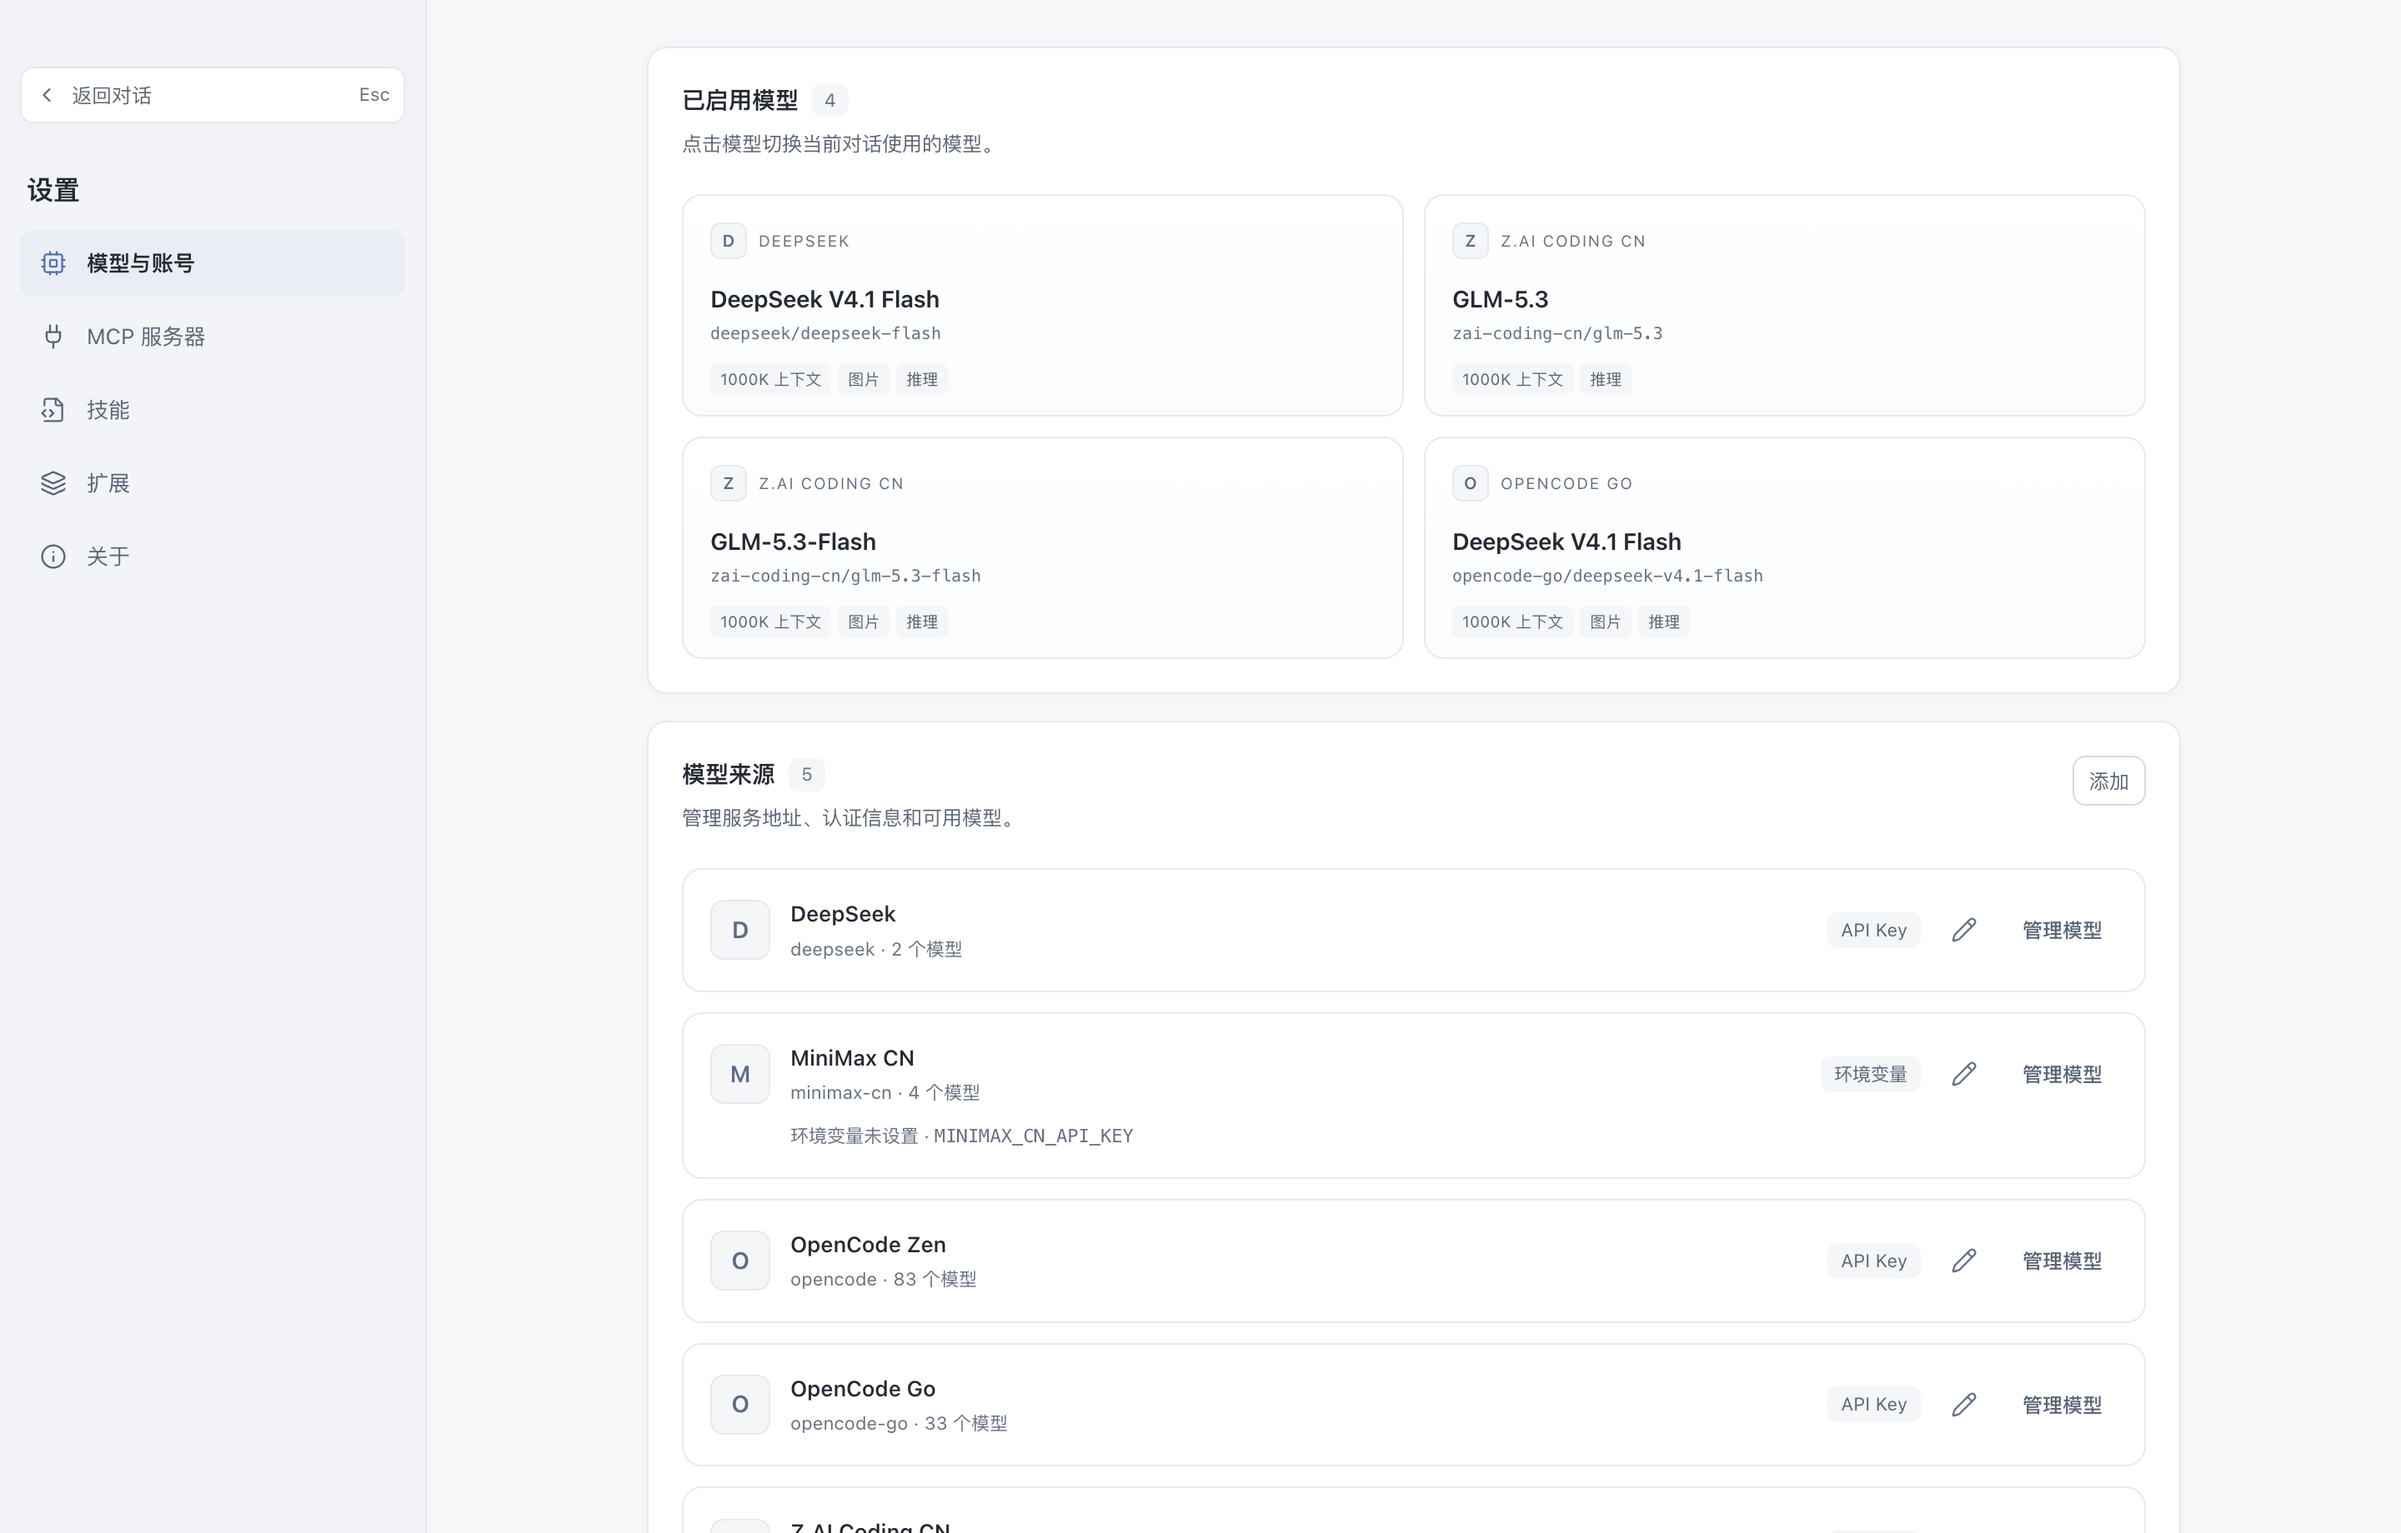
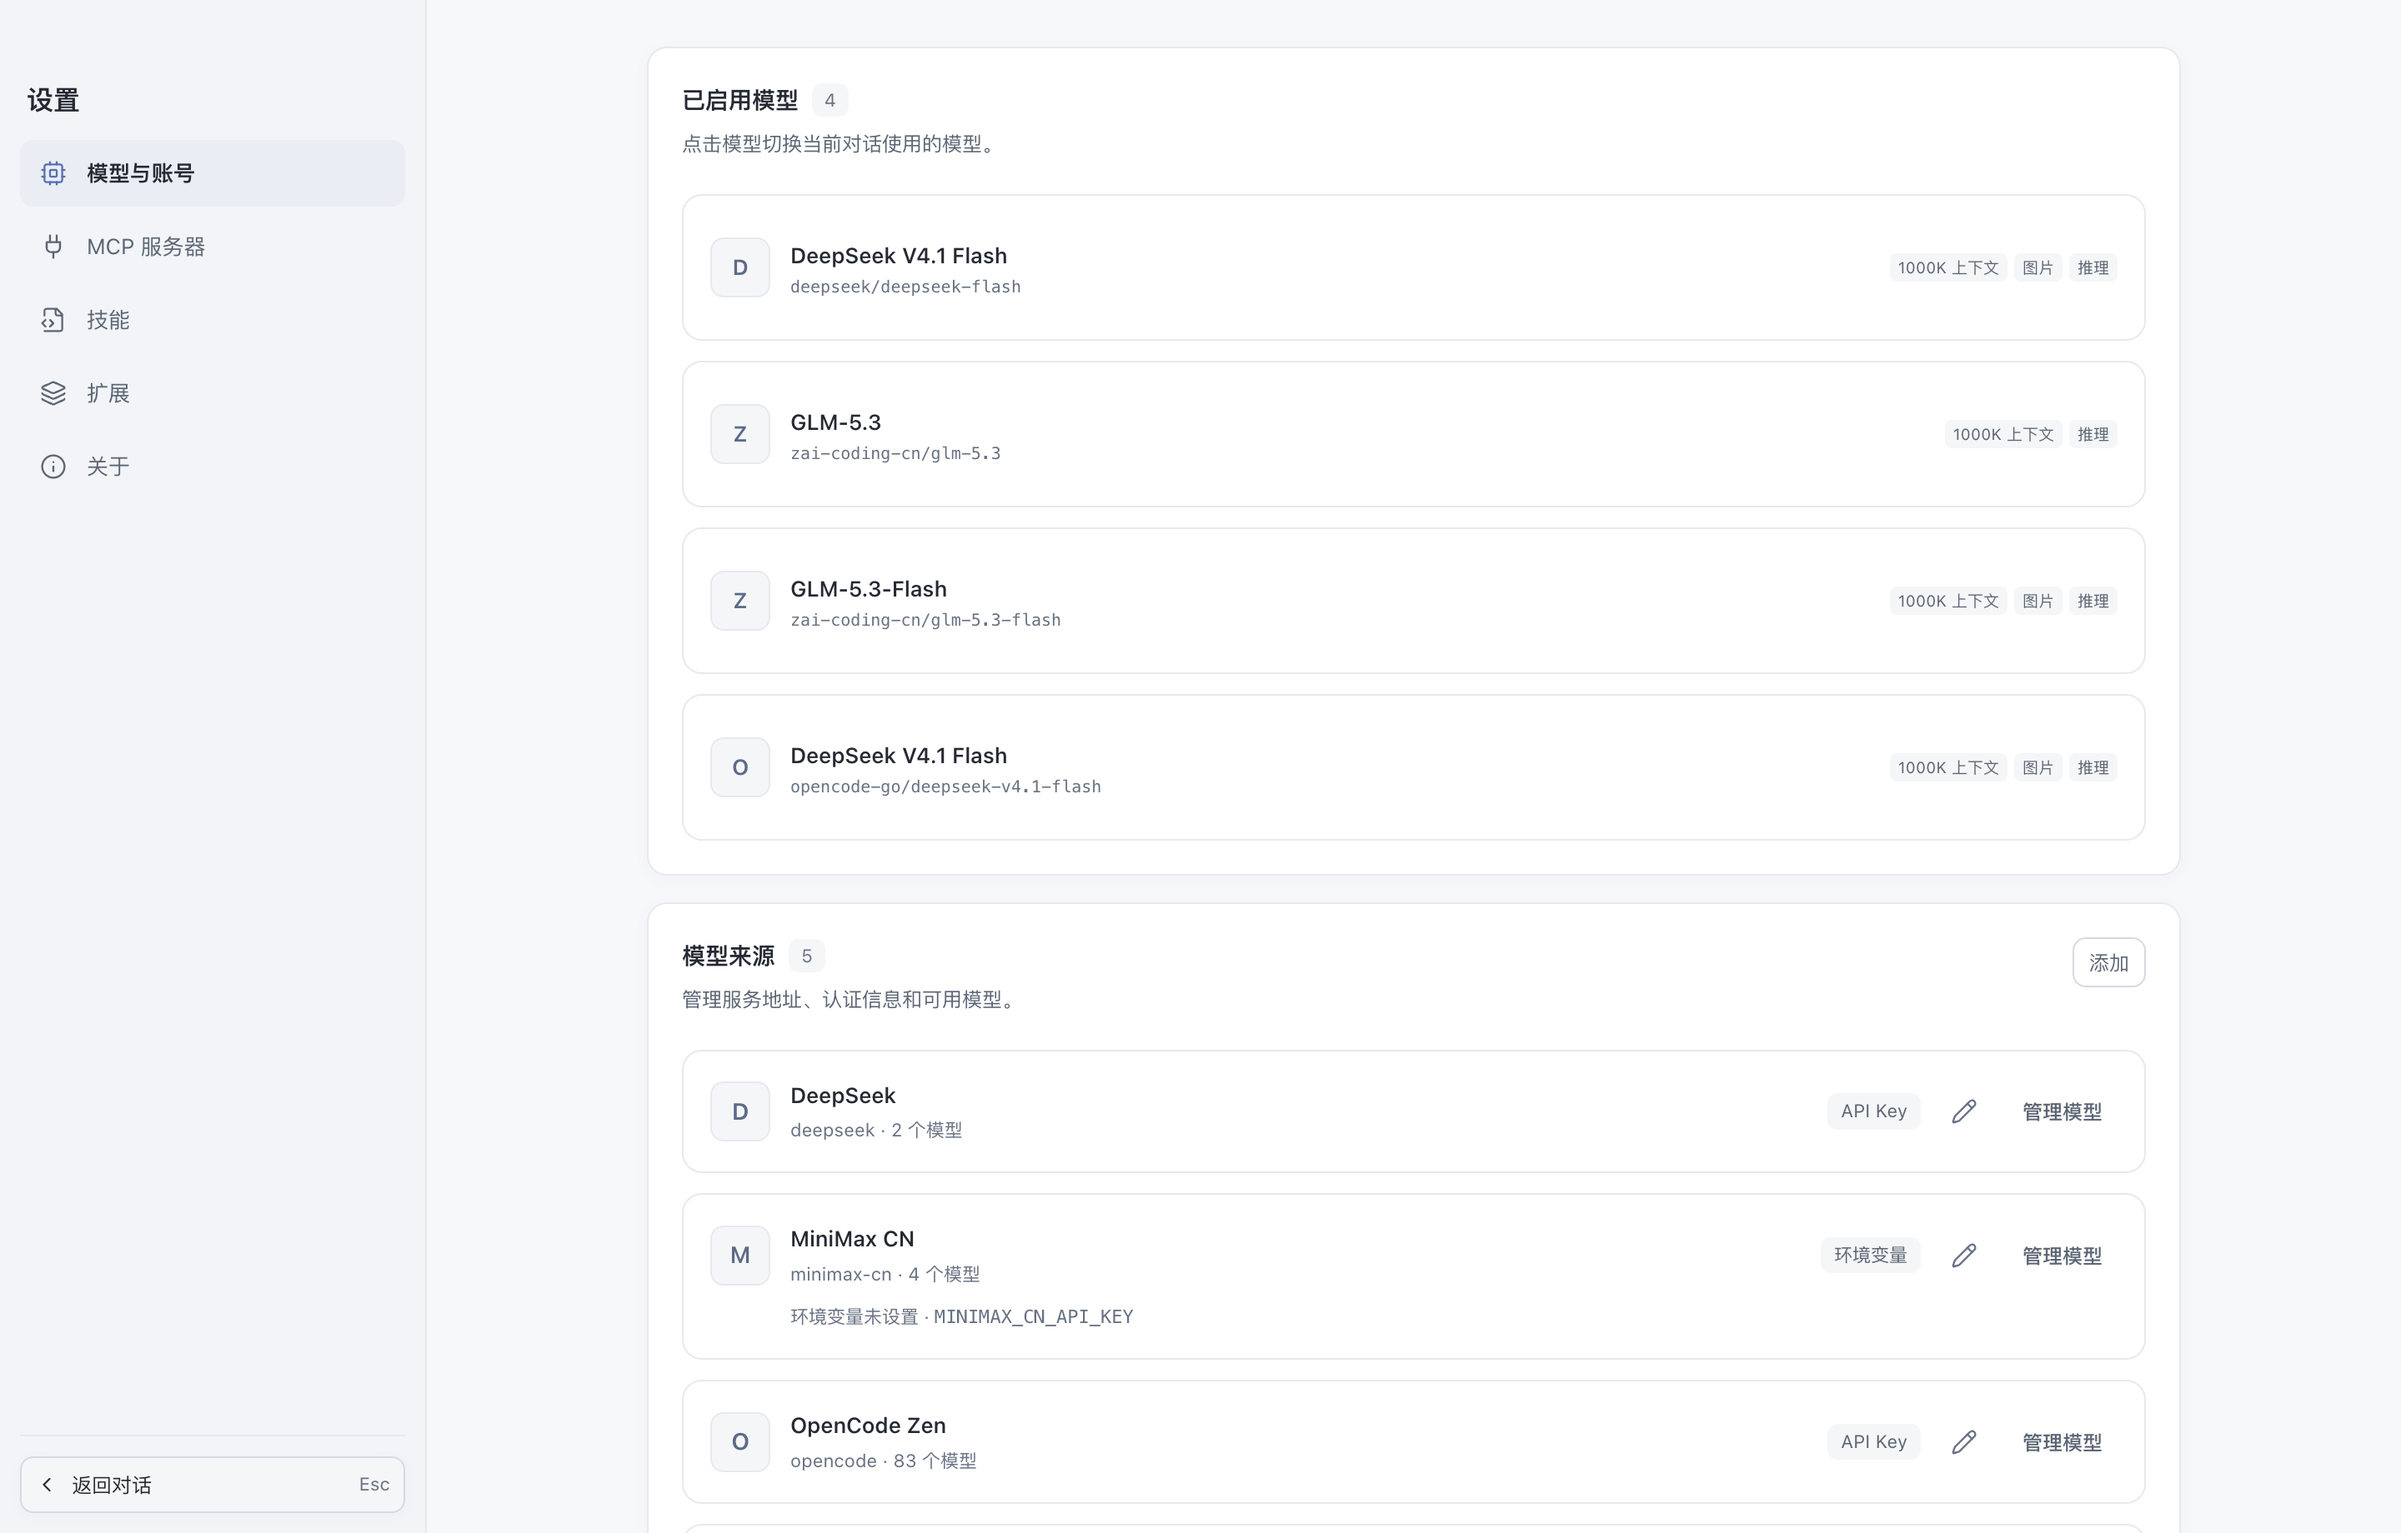
style(settings): 让模型卡片与来源列表对齐，并下移返回操作

diff --git a/web/src/App.tsx b/web/src/App.tsx
@@ -883,9 +883,9 @@ export function App() {
       {settingsOpen && (
         <div className="settings-overlay" role="dialog" aria-modal="true" aria-label="设置">
           <aside className="settings-nav">
-            <button autoFocus className="settings-back-button" onClick={() => setSettingsOpen(false)}><ChevronLeft /><span>返回对话</span><kbd>Esc</kbd></button>
             <div className="settings-nav-head"><span>设置</span></div>
             {settingsPages.map((page) => <button key={page.id} className={`settings-nav-row ${settingsTab === page.id ? 'is-active' : ''}`} aria-current={settingsTab === page.id ? 'page' : undefined} onClick={() => { setSettingsTab(page.id); setModelQuery(''); }}><page.icon />{page.label}</button>)}
+            <div className="settings-nav-bottom"><button className="settings-back-button" onClick={() => setSettingsOpen(false)}><ChevronLeft /><span>返回对话</span><kbd>Esc</kbd></button></div>
           </aside>
           <section className="settings-content" ref={settingsContentRef}>
             {settingsError && <div className="settings-error" role="alert">{settingsError}</div>}
@@ -900,16 +900,16 @@ export function App() {
                       const active = id === modelRef;
                       const provider = item?.providerName || item?.provider || id.split('/')[0];
                       return <article className={`model-card ${active ? 'is-active' : ''}`} key={id}>
+                        <span className="model-card-avatar">{provider.slice(0, 1)}</span>
                         <button className="model-card-main" aria-current={active ? 'true' : undefined} onClick={() => void selectModel(id).then(async () => setSettingsData(await window.piApi.settings(workspace)))}>
-                          <div className="model-card-top"><span className="model-card-avatar">{provider.slice(0, 1)}</span><span className="model-card-provider">{provider}</span>{active && <span className="model-card-current">当前</span>}</div>
-                          <strong className="model-card-name">{item?.name ?? id}</strong>
+                          <span className="model-card-heading"><strong>{item?.name ?? id}</strong>{active && <span className="model-card-current">当前</span>}</span>
                           <span className="model-card-id">{id}</span>
-                          <div className="model-card-meta">
-                            {item?.contextWindow && <span>{Math.round(item.contextWindow / 1000)}K 上下文</span>}
-                            {item?.supportsImages && <span>图片</span>}
-                            {item?.reasoning && <span>推理</span>}
-                          </div>
                         </button>
+                        <span className="model-card-meta">
+                          {item?.contextWindow && <span>{Math.round(item.contextWindow / 1000)}K 上下文</span>}
+                          {item?.supportsImages && <span>图片</span>}
+                          {item?.reasoning && <span>推理</span>}
+                        </span>
                         <button className="model-card-remove" disabled={settingsBusy} aria-label={`移除模型 ${item?.name ?? id}`} title="移除" onClick={() => void setEnabled(enabledModels.filter((entry) => entry !== id))}><X /></button>
                       </article>;
                     })}

diff --git a/web/src/app.css b/web/src/app.css
@@ -545,3 +545,31 @@ kbd { font: inherit; font-size: var(--text-xs); color: var(--faint); }
 
 /* All settings pages share one content column. */
 .settings-sections, .settings-card { width: 100%; }
+
+/* Selected models sit on the same full-width rhythm as the source rows below. */
+.model-card-grid { display: flex; flex-direction: column; gap: var(--space-2); }
+.model-card { display: flex; align-items: center; gap: var(--space-3); width: 100%; min-height: 86px; padding: 14px var(--space-4); border: 1px solid var(--border); border-radius: var(--radius-card); background: var(--surface); box-shadow: none; transform: none; transition: border-color var(--transition), background var(--transition); }
+.model-card:hover { border-color: var(--border-strong); background: #fcfdff; box-shadow: none; transform: none; }
+.model-card.is-active { border-color: var(--accent-border); background: #fbfcff; box-shadow: inset 2px 0 0 var(--accent); }
+.model-card-avatar { display: grid; place-items: center; width: 36px; height: 36px; flex: none; border: 1px solid var(--border); border-radius: var(--radius-control); background: var(--surface-soft); color: #596b89; font-size: var(--text-base); font-weight: 600; }
+.model-card-main { flex: 1; min-width: 0; display: flex; flex-direction: column; align-items: flex-start; gap: 3px; padding: 0; text-align: left; background: transparent; }
+.model-card-heading { display: flex; align-items: center; gap: var(--space-2); width: 100%; min-width: 0; }
+.model-card-heading strong { overflow: hidden; text-overflow: ellipsis; white-space: nowrap; font-size: var(--text-base); font-weight: 550; }
+.model-card-current { flex: none; padding: 1px 6px; border-radius: 999px; background: var(--accent-soft); color: var(--accent); font-size: 9.5px; font-weight: 400; }
+.model-card .model-card-id { display: block; max-width: 100%; margin: 0; color: var(--faint); font: 10px var(--mono); }
+.model-card .model-card-meta { display: flex; flex-wrap: wrap; gap: 4px; margin-top: 3px; padding: 0; }
+.model-card .model-card-meta > span { padding: 1px 5px; border-radius: 4px; background: var(--surface-soft); color: var(--muted); font-size: 9.5px; }
+.model-card-remove { display: grid; place-items: center; width: 28px; height: 28px; flex: none; border-radius: var(--radius-sm); color: var(--faint); opacity: .55; }
+.model-card:hover .model-card-remove, .model-card.is-active .model-card-remove, .model-card-remove:focus-visible { opacity: 1; }
+.model-card-remove:hover { background: var(--error-soft); color: var(--error); }
+.model-card-remove svg { width: 14px; height: 14px; }
+
+.settings-nav-bottom { margin-top: auto; padding-top: var(--space-3); border-top: 1px solid var(--border); }
+.settings-nav-head { margin-top: 0; }
+.model-card-grid { gap: var(--space-3); }
+.model-card { min-height: 88px; }
+.model-card-main { gap: 2px; }
+.model-card .model-card-meta { flex: none; margin: 0; padding: 0; justify-content: flex-end; max-width: 42%; }
+.model-card-remove { opacity: 0; }
+.model-card:hover .model-card-remove, .model-card.is-active .model-card-remove, .model-card-remove:focus-visible { opacity: .8; }
+@media (max-width: 900px) { .model-card .model-card-meta { display: none; } }
